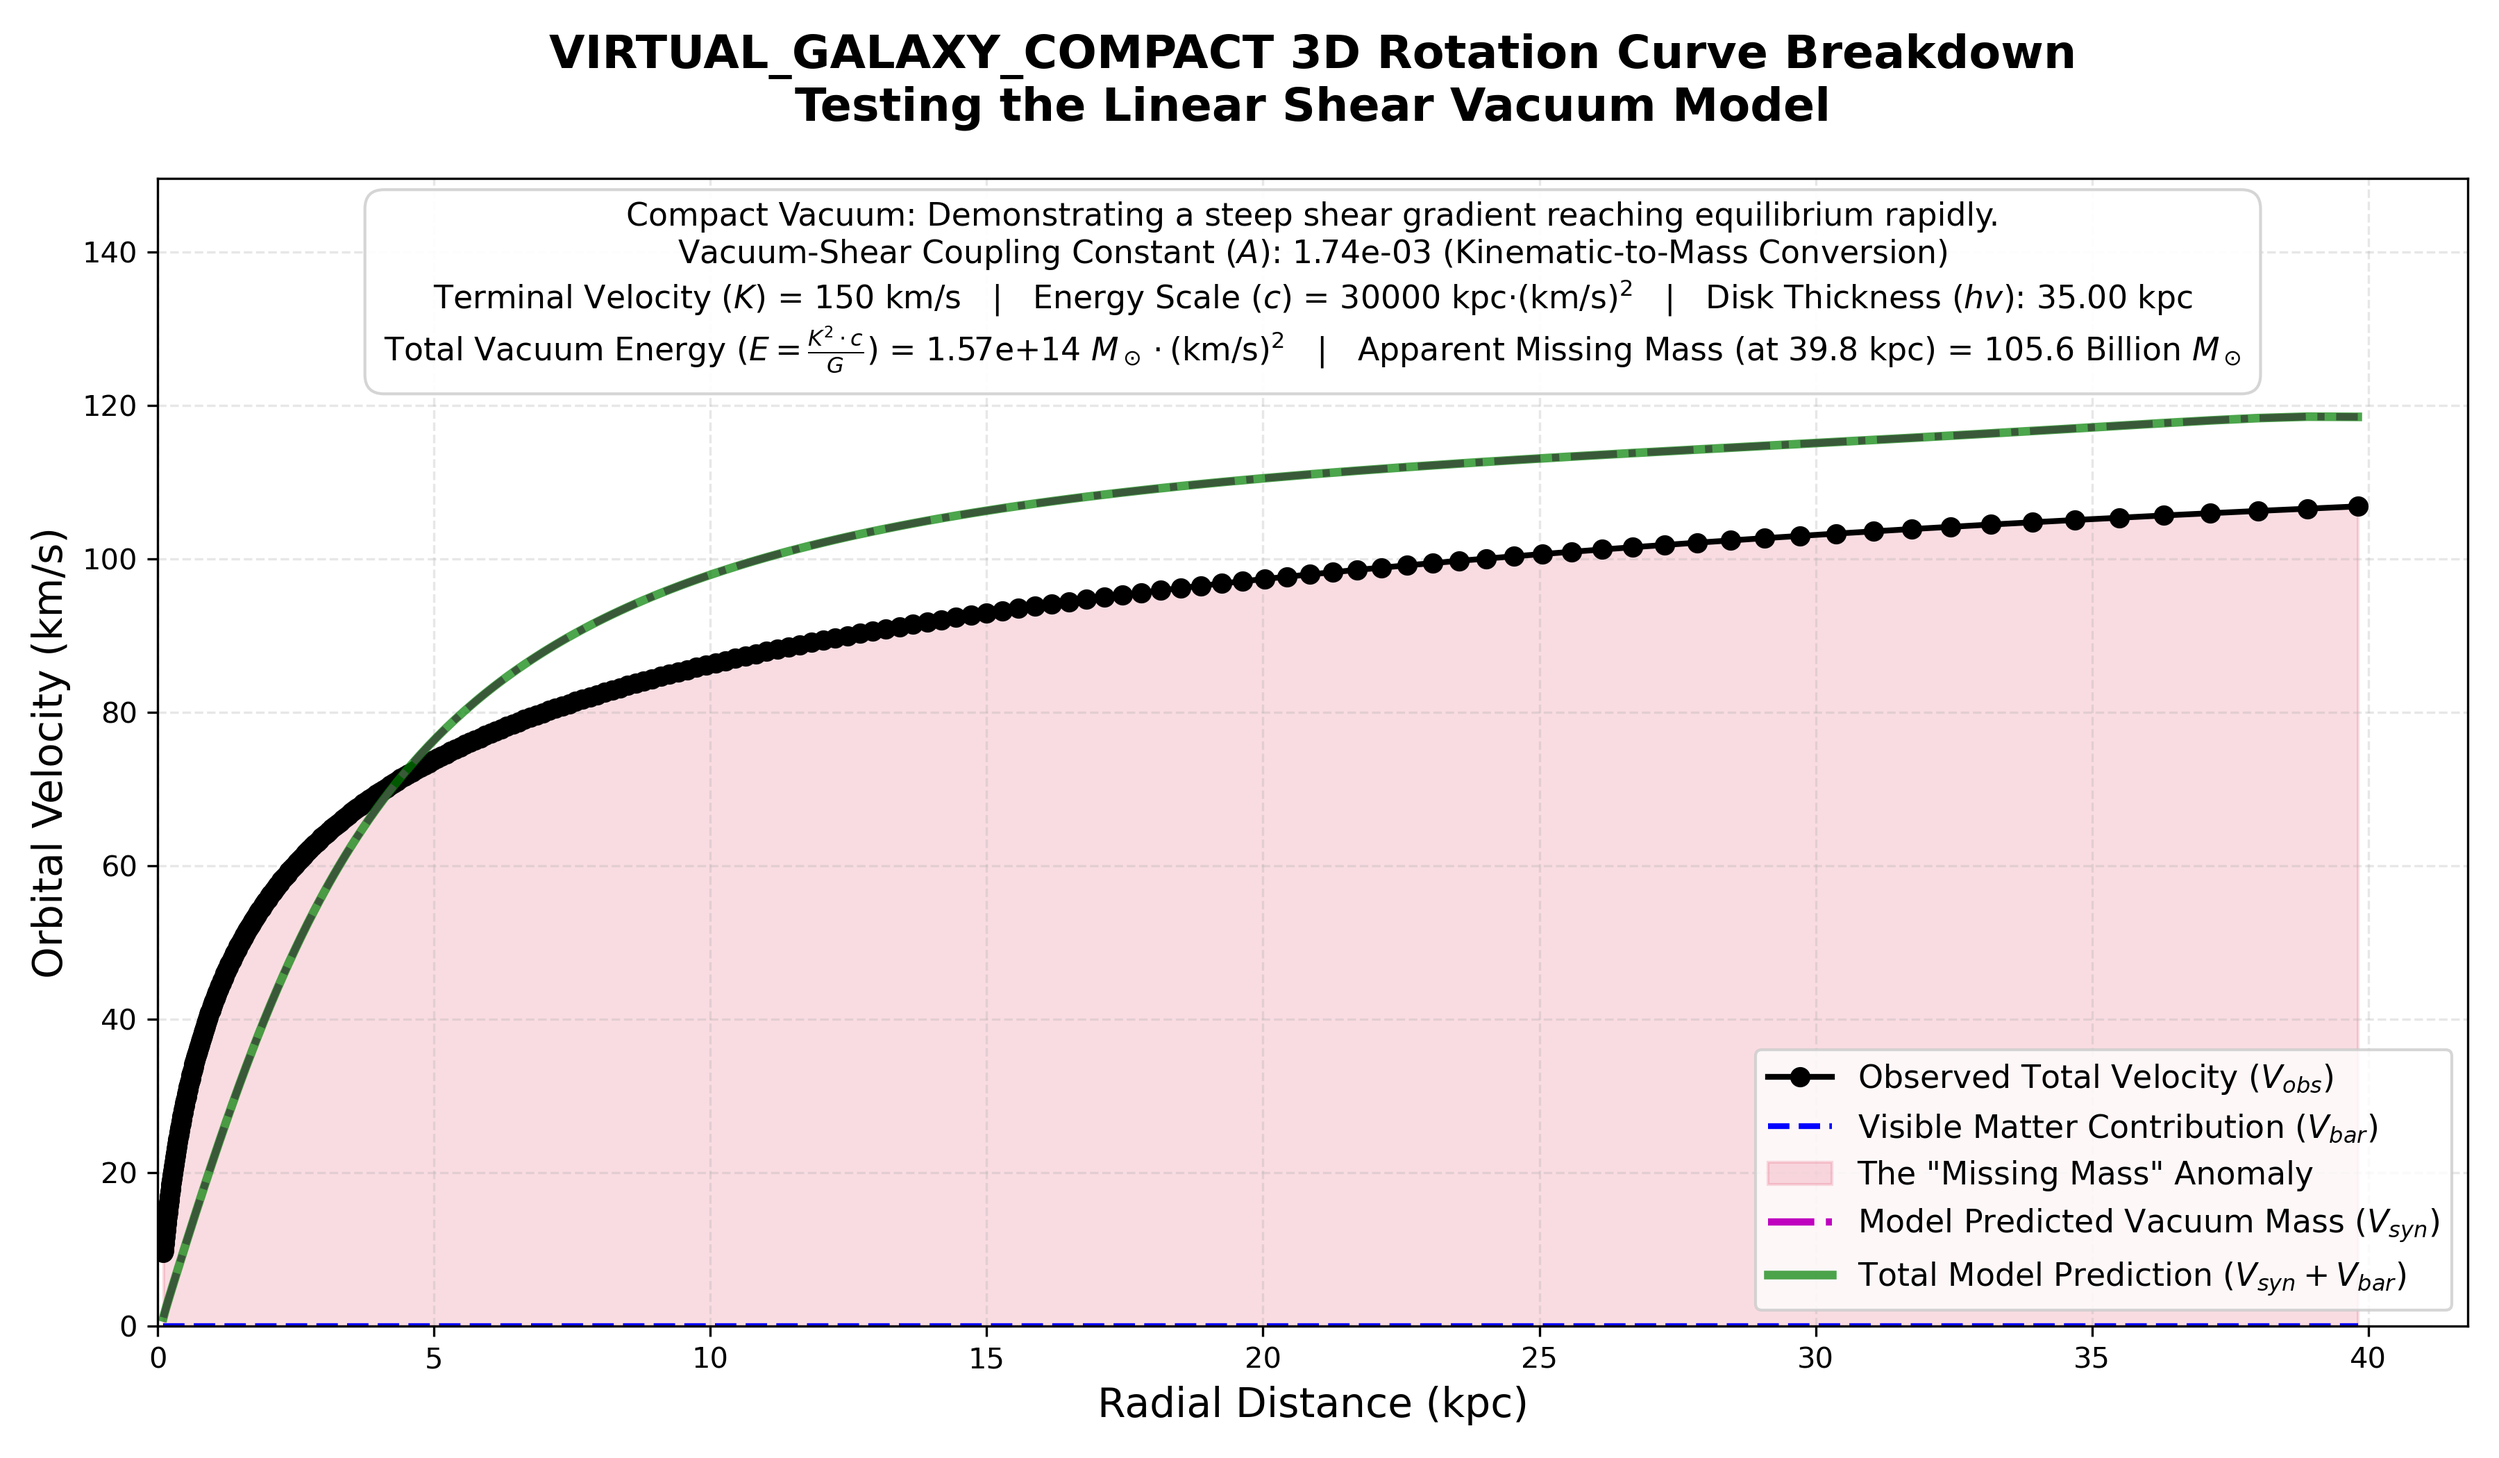
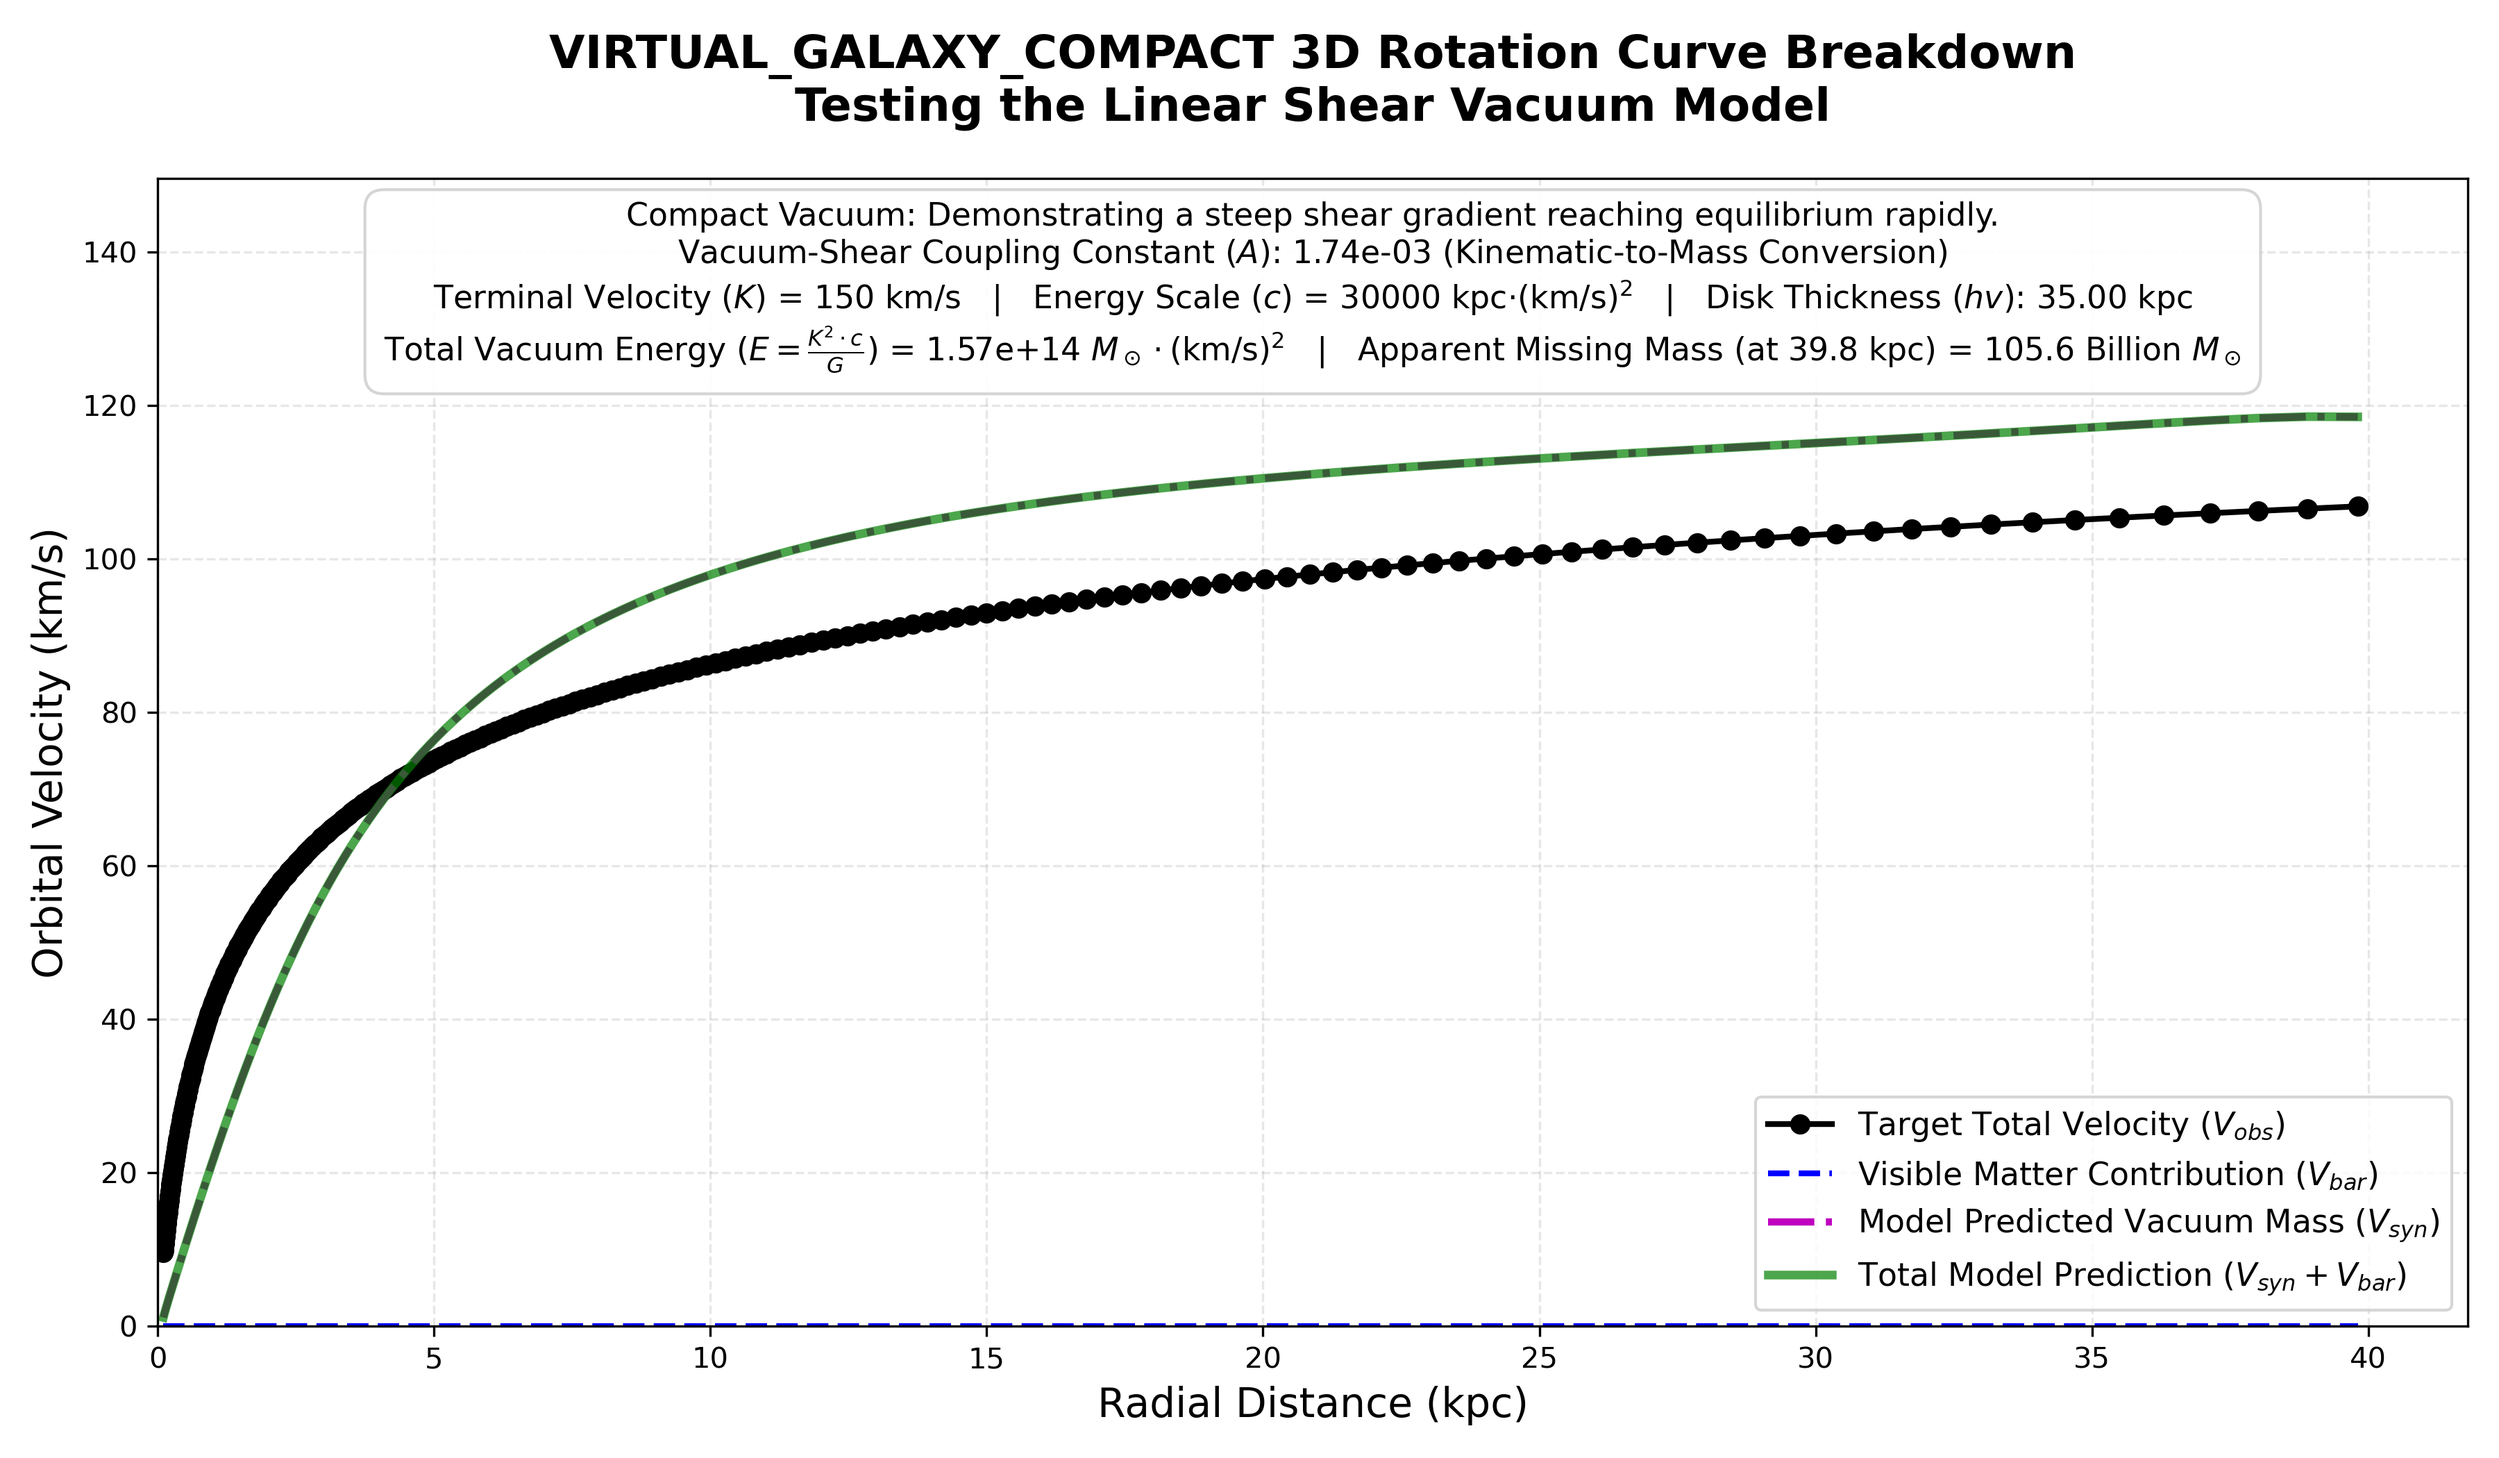
Updated graph virtual galaxies

diff --git a/generate_rotation_curves.py b/generate_rotation_curves.py
@@ -1,11 +1,12 @@
 """
 =============================================================================
-Linear Shear Vacuum Model - 3D Batch Rotation Curve Generator
+Linear Shear Vacuum Model - 3D Batch Rotation Curve Generator (V2)
 =============================================================================
 Features included:
 - Dynamic Mass-to-Light ratio overrides per galaxy via config.yml
 - Manual Scale-Height (hv_fixed) overrides for extreme LSBs
 - Bulletproof regex string matching to handle formatting errors in SPARC
+- NEW: Advanced 3D mass/energy integration (Kinematic, Shear, Pure Rotation)
 =============================================================================
 """
 
@@ -122,7 +123,6 @@ def process_galaxy_3d(df_target: pd.DataFrame, target_config: dict, output_folde
         best_hv = float(target_config['hv_fixed'])
         print(f"  -> Manual Override: using hv = {best_hv} for {galaxy_name}")
     else:
-        # Bounds expanded to 35 to allow organic spherical discovery
         res = minimize_scalar(
             lambda hv: evaluate_galaxy(hv, R_grid, z_grid, R_2d, z_2d, V_midplane, masks, kernels, R_obs, V_true)[0],
             bounds=(1.0, 35.0), method='bounded'
@@ -132,7 +132,36 @@ def process_galaxy_3d(df_target: pd.DataFrame, target_config: dict, output_folde
     _, V_syn = evaluate_galaxy(best_hv, R_grid, z_grid, R_2d, z_2d, V_midplane, masks, kernels, R_obs, V_true)
     V_tot_predicted = np.sqrt(V_bar_sq + V_syn**2)
 
+    # =========================================================
+    # CALCULATE MASS / ENERGY EQUIVALENTS (at R_max)
+    # =========================================================
+    # 1. Kinematic Required Energy (Classical Spherical Approximation: V^2*R/G)
+    M_missing_kinematic = ((V_true[-1]**2) * R_max / G) / 1e9
+
+    # 2. Volume-Integrated Vacuum Energy (Adding up the rotating layers via Shear)
+    V_2d = V_midplane * np.exp(-z_2d / best_hv)
+    Omega_2d = V_2d / R_2d
+    Shear_2d = np.sqrt(np.gradient(Omega_2d, R_grid, axis=0)**2 + np.gradient(Omega_2d, z_grid, axis=1)**2)
+    Rho_2d = GLOBAL_A * (Shear_2d ** GLOBAL_B)
+    Rho_2d[masks['outer']] *= masks['outer_taper']
+    Rho_2d[np.sqrt(R_2d**2 + z_2d**2) > masks['edge']] = 0.0
+    
+    dR = R_grid[1] - R_grid[0]
+    dz = z_grid[1] - z_grid[0]
+    dV_layer = 2 * np.pi * R_2d * dR * dz * 2.0 
+    
+    Rho_kpc = Rho_2d * 1e9
+    M_missing_integrated = np.sum(Rho_kpc * dV_layer) / 1e9 
+
+    # 3. Pure Rotation Energy (Gravitomagnetic equivalent mass in 3D)
+    Omega_2d_sq = (V_2d / R_2d)**2
+    Rho_rot_2d = Omega_2d_sq / (4 * np.pi * G) 
+    Rho_rot_2d[np.sqrt(R_2d**2 + z_2d**2) > masks['edge']] = 0.0
+    M_pure_rotation = np.sum(Rho_rot_2d * dV_layer) / 1e9 
+
+    # =========================================================
     # PLOTTING
+    # =========================================================
     plt.figure(figsize=(12, 7))
     plt.plot(R_obs, V_obs, 'ko-', linewidth=2, label='Observed Total Velocity ($V_{obs}$)', markersize=6)
     plt.plot(R_obs, V_bar, 'b--', linewidth=2, label='Visible Matter Contribution ($V_{bar}$)')
@@ -141,7 +170,8 @@ def process_galaxy_3d(df_target: pd.DataFrame, target_config: dict, output_folde
     plt.plot(R_obs, V_syn, 'm-.', linewidth=2.5, label=f'Model Predicted Vacuum Mass ($V_{{syn}}$)')
     plt.plot(R_obs, V_tot_predicted, 'g-', linewidth=3, alpha=0.7, label='Total Model Prediction ($V_{syn} + V_{bar}$)')
 
-    max_y = max(V_obs) * 1.3 
+    # Verhoogde Y-as limiet om ruimte te maken voor de uitgebreide tekstbox
+    max_y = max(V_obs) * 1.50 
     
     plt.title(f'{galaxy_name} 3D Rotation Curve Breakdown\nTesting the Linear Shear Vacuum Model', fontsize=16, fontweight='bold', pad=20)
     plt.xlabel('Radial Distance (kpc)', fontsize=14)
@@ -151,10 +181,13 @@ def process_galaxy_3d(df_target: pd.DataFrame, target_config: dict, output_folde
         f"{description}\n"
         f"Optimized Disk Thickness ($hv$): {best_hv:.2f} kpc   |   "
         f"Global Constant ($A$): {GLOBAL_A:.2e}   |   "
-        f"Mass-to-Light: $\\Upsilon_{{disk}}$={u_disk}, $\\Upsilon_{{bulge}}$={u_bulge}"
+        f"Mass-to-Light: $\\Upsilon_{{disk}}$={u_disk}, $\\Upsilon_{{bulge}}$={u_bulge}\n"
+        f"Req. Kinematic Mass (Sphere): {M_missing_kinematic:.2f} Billion $M_\\odot$   |   "
+        f"Integrated Space Energy (Shear): {M_missing_integrated:.2f} Billion $M_\\odot$\n"
+        f"Integrated Pure Rotation (3D): {M_pure_rotation:.2f} Billion $M_\\odot$"
     )
     
-    plt.text(0.5, 0.96, context_text, transform=plt.gca().transAxes, fontsize=11,
+    plt.text(0.5, 0.98, context_text, transform=plt.gca().transAxes, fontsize=11,
              ha='center', va='top', bbox=dict(facecolor='white', alpha=0.95, edgecolor='lightgrey', boxstyle='round,pad=0.6'))
 
     plt.legend(loc='lower right', fontsize=11)

diff --git a/generate_rotation_curves_virtual.py b/generate_rotation_curves_virtual.py
@@ -129,10 +129,12 @@ def process_galaxy_3d(df_target: pd.DataFrame, target_config: dict, output_folde
     # PLOTTING
     # =========================================================
     plt.figure(figsize=(12, 7))
-    plt.plot(R_obs, V_obs, 'ko-', linewidth=2, label='Observed Total Velocity ($V_{obs}$)', markersize=6)
-    plt.plot(R_obs, V_bar, 'b--', linewidth=2, label='Visible Matter Contribution ($V_{bar}$)')
-    plt.fill_between(R_obs, V_bar, V_obs, color='crimson', alpha=0.15, label='The "Missing Mass" Anomaly')
     
+    # Plot the foundational curves without the anomaly shading
+    plt.plot(R_obs, V_obs, 'ko-', linewidth=2, label='Target Total Velocity ($V_{obs}$)', markersize=6)
+    plt.plot(R_obs, V_bar, 'b--', linewidth=2, label='Visible Matter Contribution ($V_{bar}$)')
+    
+    # Plot the model predictions
     plt.plot(R_obs, V_syn, 'm-.', linewidth=2.5, label=f'Model Predicted Vacuum Mass ($V_{{syn}}$)')
     plt.plot(R_obs, V_tot_predicted, 'g-', linewidth=3, alpha=0.7, label='Total Model Prediction ($V_{syn} + V_{bar}$)')
 
@@ -142,7 +144,7 @@ def process_galaxy_3d(df_target: pd.DataFrame, target_config: dict, output_folde
     plt.title(f'{galaxy_name} 3D Rotation Curve Breakdown\nTesting the Linear Shear Vacuum Model', fontsize=16, fontweight='bold', pad=20)
     plt.xlabel('Radial Distance (kpc)', fontsize=14)
     plt.ylabel('Orbital Velocity (km/s)', fontsize=14)
-    
+
     # =========================================================
     # CALCULATE COSMOLOGICAL MASS & ENERGY
     # =========================================================
